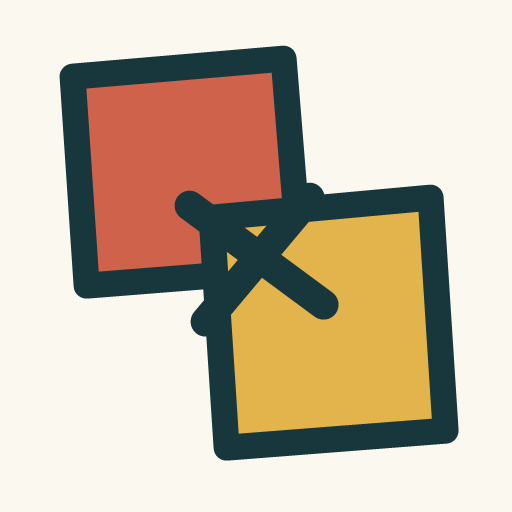
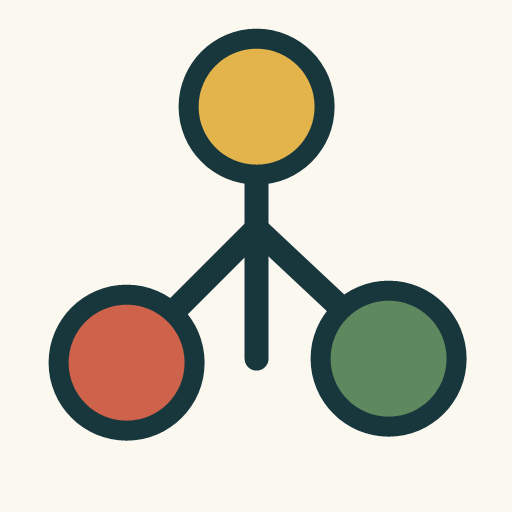
Restore Binary Tree brand and public identity

diff --git a/app/handmade.css b/app/handmade.css
@@ -1,4 +1,4 @@
-/* Patchwork: editorial, tactile, and deliberately imperfect. */
+/* Binary Tree: editorial, tactile, and deliberately imperfect. */
 :root {
   --ink: #243b3f; --muted: #5f6e6d; --subtle: #788381; --line: #d8d2c4; --line-strong: #aaa496;
   --paper: #fbf8ef; --soft: #f3eee1; --blue-50: #edf4f2; --blue-100: #d8e9e4; --blue-600: #315f68; --blue-700: #244d55;
@@ -42,13 +42,18 @@ h3 { letter-spacing: -.018em; }
 .brand-lockup { gap: 11px; }
 .brand-lockup strong { color: var(--navy-dark); font-family: Georgia,serif; font-size: 1.22rem; font-style: italic; letter-spacing: -.035em; }
 .brand-lockup small { color: var(--muted); font-size: .62rem; }
-.patchwork-mark { position: relative; display: block; transform: rotate(-3deg); }
-.brand-scrap { position: absolute; display: block; border: 2px solid var(--navy-dark); }
-.brand-scrap-one { inset: 4% 39% 44% 5%; border-radius: 7px 3px 6px 2px; background: var(--tomato); transform: rotate(-4deg); }
-.brand-scrap-two { inset: 38% 5% 3% 34%; border-radius: 3px 8px 2px 7px; background: var(--mustard); transform: rotate(5deg); }
-.brand-stitch { position: absolute; top: 23%; left: 37%; z-index: 2; color: var(--navy-dark); font-family: Georgia,serif; font-size: 1.5rem; font-weight: 900; line-height: 1; transform: rotate(6deg); }
-.patchwork-mark.is-inverted .brand-scrap { border-color: #fffdf7; }
-.patchwork-mark.is-inverted .brand-stitch { color: #fffdf7; }
+.binary-tree-mark { position: relative; display: block; transform: rotate(-2deg); }
+.tree-line { position: absolute; display: block; height: 2px; border-radius: 60% 40% 52% 48%; background: var(--navy-dark); transform-origin: left center; }
+.tree-trunk { top: 24%; left: 48%; width: 2px; height: 58%; transform: rotate(2deg); }
+.tree-branch { top: 47%; left: 49%; width: 41%; }
+.tree-branch-left { transform: rotate(211deg); }
+.tree-branch-right { width: 38%; transform: rotate(-32deg); }
+.tree-node { position: absolute; display: block; width: 29%; height: 27%; border: 2px solid var(--navy-dark); border-radius: 48% 55% 43% 58%; box-shadow: 1px 2px 0 rgba(36,59,63,.12); }
+.tree-node-root { top: 4%; left: 35%; background: var(--mustard); transform: rotate(5deg); }
+.tree-node-left { bottom: 2%; left: 3%; background: var(--tomato); transform: rotate(-7deg); }
+.tree-node-right { right: 1%; bottom: 7%; background: var(--leaf); transform: rotate(6deg); }
+.binary-tree-mark.is-inverted .tree-line { background: #fffdf7; }
+.binary-tree-mark.is-inverted .tree-node { border-color: #fffdf7; }
 .explore-link,.header-search-link { border: 0; border-radius: 0; background: transparent; color: var(--navy); }
 .explore-link { gap: 8px; border-bottom: 2px dashed rgba(36,77,85,.45); }
 .header-search-link { min-width: 88px; padding: 6px 2px; }

diff --git a/app/about/page.js b/app/about/page.js
@@ -3,7 +3,7 @@ import { getAllLessons, getTracks } from "@/lib/curriculum";
 
 export const metadata = {
   title: "Our approach",
-  description: "How Patchwork designs practical, offline-first technology education for low-resource classrooms.",
+  description: "How Binary Tree designs practical, offline-first technology education for low-resource classrooms.",
 };
 
 export default function AboutPage() {
@@ -13,14 +13,14 @@ export default function AboutPage() {
     <main id="main-content">
       <section className="page-hero">
         <div className="container page-hero-grid" data-reveal>
-          <div><p className="eyebrow">Our approach</p><h1>Access is part of the curriculum.</h1><p>A lesson is not accessible if it disappears with the network, assumes one computer per learner, or needs equipment the classroom does not have. Patchwork starts with those realities.</p></div>
+          <div><p className="eyebrow">Our approach</p><h1>Access is part of the curriculum.</h1><p>A lesson is not accessible if it disappears with the network, assumes one computer per learner, or needs equipment the classroom does not have. Binary Tree starts with those realities.</p></div>
           <div className="page-hero-stat"><strong>{tracks.length}</strong><span>practical learning pathways</span></div>
         </div>
       </section>
       <section className="home-section">
         <div className="container about-grid" data-reveal>
           <div className="about-card"><strong>{lessons.length}</strong><span>current, distinct lecture decks transformed into searchable notes, practice, flashcards, and quizzes—with direct source links for instructors.</span></div>
-          <div><p className="eyebrow">Design principles</p><h2 className="section-title">Human learning is rarely a straight line.</h2><p className="section-intro">Patchwork leaves room for wrong turns, shared screens, slower connections, and the small wins that make a skill stick.</p></div>
+          <div><p className="eyebrow">Design principles</p><h2 className="section-title">Human learning is rarely a straight line.</h2><p className="section-intro">Binary Tree leaves room for wrong turns, shared screens, slower connections, and the small wins that make a skill stick.</p></div>
         </div>
       </section>
       <section className="home-section home-section-soft">

diff --git a/app/layout.js b/app/layout.js
@@ -9,31 +9,31 @@ const siteUrl = process.env.NEXT_PUBLIC_SITE_URL || (process.env.VERCEL_PROJECT_
 export const metadata = {
   metadataBase: new URL(siteUrl),
   title: {
-    default: "Patchwork — Useful learning, piece by piece",
-    template: "%s · Patchwork",
+    default: "Binary Tree — Useful learning, one step at a time",
+    template: "%s · Binary Tree",
   },
   description: "Offline-first digital skills, Python, machine learning, and entrepreneurship curriculum built for low-bandwidth classrooms.",
-  applicationName: "Patchwork Learning",
+  applicationName: "Binary Tree Learning",
   manifest: "/manifest.webmanifest",
   appleWebApp: {
     capable: true,
     statusBarStyle: "default",
-    title: "Patchwork",
+    title: "Binary Tree",
   },
   icons: {
     icon: "/icon.png",
     apple: "/icon.png",
   },
   openGraph: {
-    title: "Patchwork — Useful learning, piece by piece",
+    title: "Binary Tree — Useful learning, one step at a time",
     description: "Practical technology education that keeps working when the internet cannot.",
     type: "website",
-    siteName: "Patchwork",
-    images: [{ url: "/og.png", width: 1200, height: 630, alt: "Patchwork — Useful learning, piece by piece." }],
+    siteName: "Binary Tree",
+    images: [{ url: "/og.png", width: 1200, height: 630, alt: "Binary Tree — Useful learning, one step at a time." }],
   },
   twitter: {
     card: "summary_large_image",
-    title: "Patchwork — Useful learning, piece by piece",
+    title: "Binary Tree — Useful learning, one step at a time",
     description: "Practical technology education that keeps working when the internet cannot.",
     images: ["/og.png"],
   },

diff --git a/app/educators/page.js b/app/educators/page.js
@@ -3,7 +3,7 @@ import { getAllLessons } from "@/lib/curriculum";
 
 export const metadata = {
   title: "For educators",
-  description: "Low-resource teaching tools, offline curriculum, assessments, and a ready-to-teach lesson-plan generator from Patchwork.",
+  description: "Low-resource teaching tools, offline curriculum, assessments, and a ready-to-teach lesson-plan generator from Binary Tree.",
 };
 
 export default function EducatorsPage() {
@@ -15,7 +15,7 @@ export default function EducatorsPage() {
           <div>
             <p className="eyebrow" style={{ color: "var(--mint-300)" }}>Built with instructors</p>
             <h1>Spend less time formatting. More time teaching.</h1>
-            <p>Patchwork turns the current curriculum into dependable offline lesson notes and gives instructors practical tools for classrooms with shared devices, limited materials, and inconsistent connectivity.</p>
+            <p>Binary Tree turns the current curriculum into dependable offline lesson notes and gives instructors practical tools for classrooms with shared devices, limited materials, and inconsistent connectivity.</p>
             <Link className="button button-primary" href="/educators/lesson-planner">Generate a lesson plan</Link>
           </div>
           <div className="educator-points">

diff --git a/app/study/page.js b/app/study/page.js
@@ -3,7 +3,7 @@ import { getAllLessons } from "@/lib/curriculum";
 
 export const metadata = {
   title: "Study companion",
-  description: "Ask grounded questions, review offline flashcards, and take practice quizzes for every Patchwork lesson.",
+  description: "Ask grounded questions, review offline flashcards, and take practice quizzes for every Binary Tree lesson.",
 };
 
 export const dynamic = "force-static";
@@ -27,7 +27,7 @@ export default function StudyPage() {
       <section className="page-hero">
         <div className="container page-hero-grid" data-reveal>
           <div>
-            <p className="eyebrow">Patchwork study companion</p>
+            <p className="eyebrow">Binary Tree study companion</p>
             <h1>Review the lesson. Then make it stick.</h1>
             <p>Ask a short grounded question when you are online. Flashcards, localized summaries, and instant-feedback quizzes remain available when you are not.</p>
           </div>

diff --git a/components/site-header.js b/components/site-header.js
@@ -20,9 +20,9 @@ export function SiteHeader() {
           Find a course
           <svg width="12" height="12" viewBox="0 0 12 12" fill="none" aria-hidden="true"><path d="m2.5 4.25 3.5 3.5 3.5-3.5" stroke="currentColor" strokeWidth="1.5" /></svg>
         </Link>
-        <Link href="/" className="brand-lockup" aria-label="Patchwork home">
+        <Link href="/" className="brand-lockup" aria-label="Binary Tree home">
           <BrandMark size={36} />
-          <span><strong>Patchwork</strong><small>Useful learning, piece by piece</small></span>
+          <span><strong>Binary Tree</strong><small>Useful learning, one step at a time</small></span>
         </Link>
         <nav className="desktop-nav" aria-label="Main navigation">
           <Link className="header-search-link" href="/learn" aria-label="Search the course library"><SearchIcon /><span>Search</span></Link>

diff --git a/components/site-footer.js b/components/site-footer.js
@@ -8,7 +8,7 @@ export function SiteFooter() {
         <div className="footer-brand">
           <div className="brand-lockup brand-lockup-inverted">
             <BrandMark size={40} inverted />
-            <span><strong>Patchwork</strong><small>Useful learning, piece by piece.</small></span>
+            <span><strong>Binary Tree</strong><small>Useful learning, one step at a time.</small></span>
           </div>
           <p>Practical, offline-ready learning made for real classrooms, shared devices, and imperfect internet.</p>
         </div>
@@ -35,7 +35,7 @@ export function SiteFooter() {
         </div>
       </div>
       <div className="container footer-bottom">
-        <span>© 2026 Patchwork Learning.</span>
+        <span>© 2026 Binary Tree Learning.</span>
         <span>Learning should not stop when the internet does.</span>
       </div>
     </footer>

diff --git a/components/brand-mark.js b/components/brand-mark.js
@@ -1,13 +1,16 @@
 export function BrandMark({ size = 38, inverted = false }) {
   return (
     <span
-      className={`brand-mark patchwork-mark${inverted ? " is-inverted" : ""}`}
+      className={`brand-mark binary-tree-mark${inverted ? " is-inverted" : ""}`}
       style={{ width: size, height: size }}
       aria-hidden="true"
     >
-      <span className="brand-scrap brand-scrap-one" />
-      <span className="brand-scrap brand-scrap-two" />
-      <span className="brand-stitch">×</span>
+      <span className="tree-line tree-trunk" />
+      <span className="tree-line tree-branch tree-branch-left" />
+      <span className="tree-line tree-branch tree-branch-right" />
+      <span className="tree-node tree-node-root" />
+      <span className="tree-node tree-node-left" />
+      <span className="tree-node tree-node-right" />
     </span>
   );
 }

diff --git a/components/lesson-planner.js b/components/lesson-planner.js
@@ -112,7 +112,7 @@ export function LessonPlanner() {
         ) : (
           <>
             <div className="plan-output-header">
-              <div><p className="eyebrow">Patchwork lesson plan</p><h2>{plan.title}</h2><p className="plan-output-subtitle">{plan.overview}</p></div>
+              <div><p className="eyebrow">Binary Tree lesson plan</p><h2>{plan.title}</h2><p className="plan-output-subtitle">{plan.overview}</p></div>
               <div className="plan-toolbar"><button className="button button-secondary button-small" onClick={copy}>Copy</button><button className="button button-dark button-small" onClick={() => window.print()}>Print</button></div>
             </div>
             <div className="plan-section"><h3>Learning objectives</h3><ul>{plan.objectives.map((item) => <li key={item}>{item}</li>)}</ul></div>

diff --git a/app/api/ai/tutor/route.js b/app/api/ai/tutor/route.js
@@ -38,7 +38,7 @@ export async function POST(request) {
     const instruction = mode === "simplify"
       ? "Rewrite the prior answer more simply, using one short analogy if helpful."
       : "Answer the learner's question using only the lesson context below.";
-    const prompt = `You are Patchwork's patient study companion for learners who may share a phone or computer and may have limited bandwidth.
+    const prompt = `You are Binary Tree's patient study companion for learners who may share a phone or computer and may have limited bandwidth.
 
 ${instruction}
 - Respond in ${LANGUAGE_NAMES[language]}.

diff --git a/app/api/ai/draft/route.js b/app/api/ai/draft/route.js
@@ -9,7 +9,7 @@ export async function POST(request) {
   const { lessonTitle, courseTitle, courseCategory } = await request.json();
   if (!lessonTitle) return NextResponse.json({ error: "lessonTitle required" }, { status: 400 });
 
-  const prompt = `You are a curriculum designer for Patchwork, an offline-first digital literacy platform for underprivileged communities.
+  const prompt = `You are a curriculum designer for Binary Tree, an offline-first digital literacy platform for underprivileged communities.
 
 Draft a lesson called "${lessonTitle}" for the course "${courseTitle}" (${courseCategory}).
 

diff --git a/app/api/ai/lesson-plan/route.js b/app/api/ai/lesson-plan/route.js
@@ -43,7 +43,7 @@ export async function POST(request) {
 
     if (!process.env.GEMINI_API_KEY) return NextResponse.json({ plan: fallbackPlan(topic, grade, resources), offline: true });
 
-    const prompt = `You are an expert Patchwork curriculum designer. Create a complete, practical 60-minute lesson plan about "${topic}" for ${grade}.
+    const prompt = `You are an expert Binary Tree curriculum designer. Create a complete, practical 60-minute lesson plan about "${topic}" for ${grade}.
 
 NON-NEGOTIABLE CONTEXT:
 - The classroom is low-resource and may have no internet.
